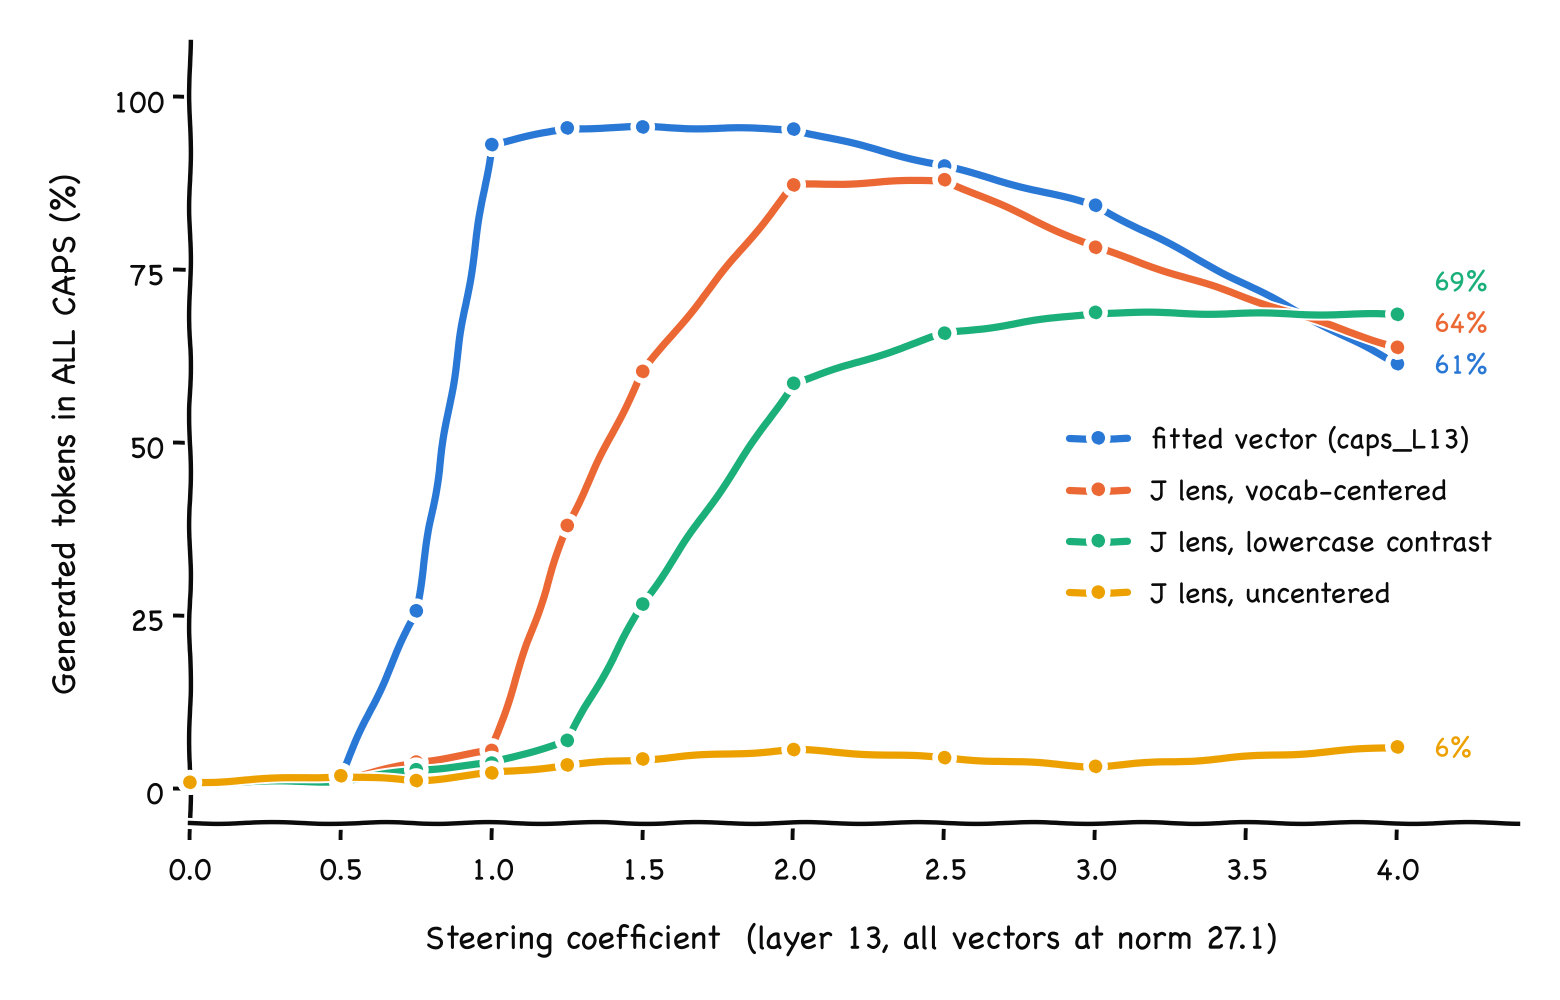
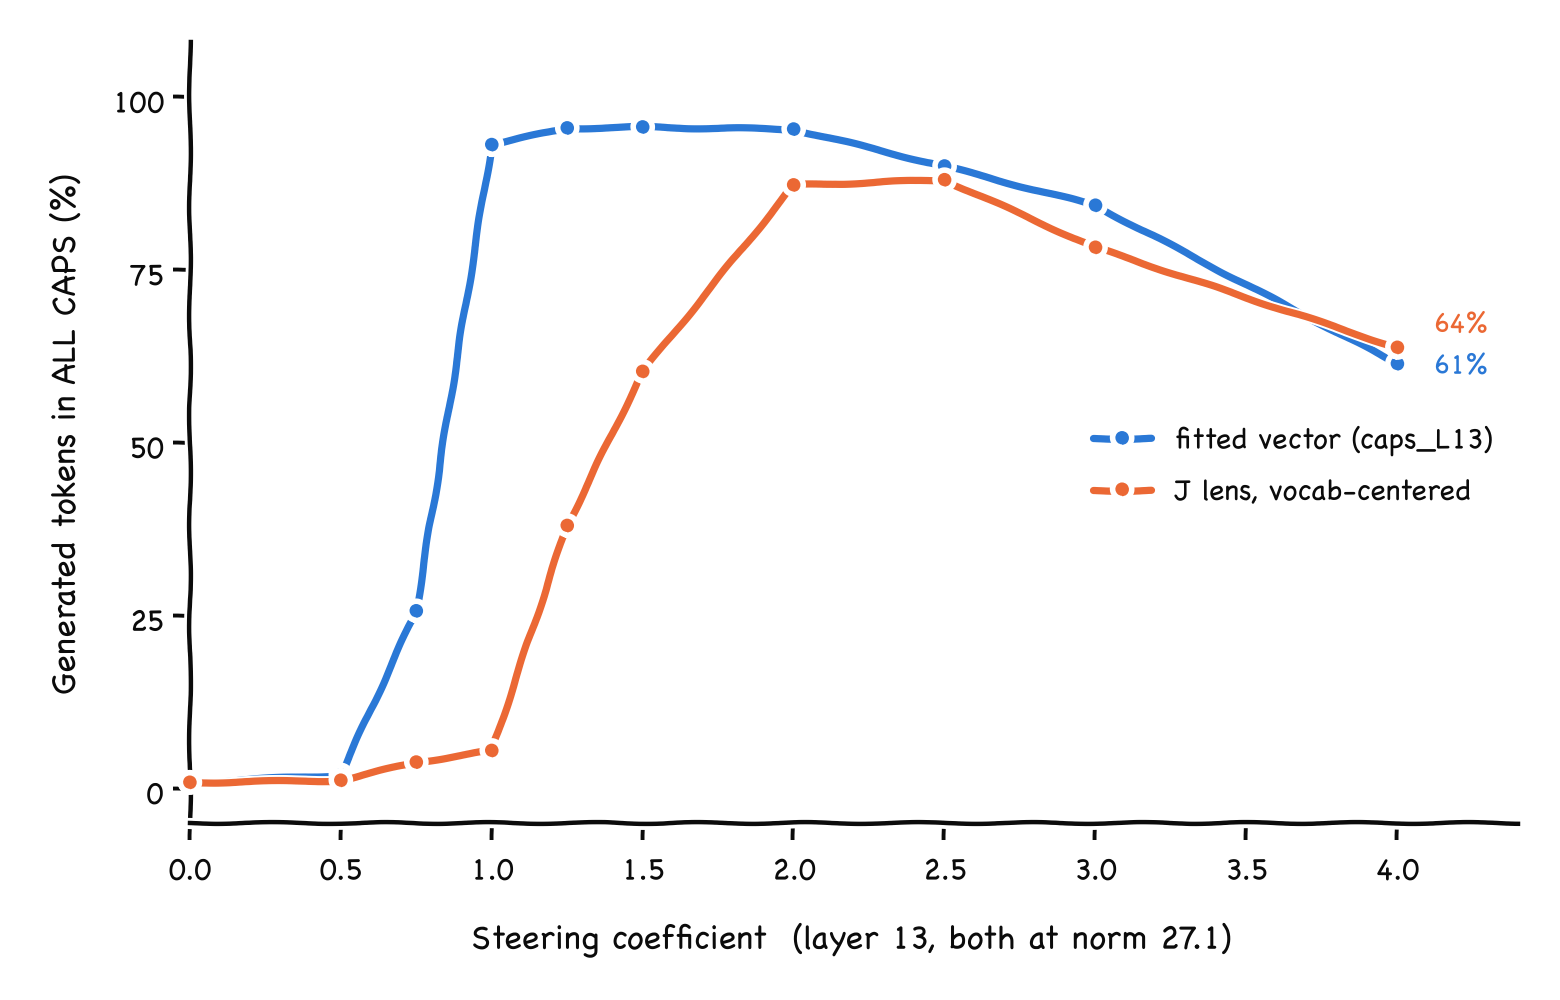
Plot only the derived vector against the fitted one
Drop the lowercase-contrast and uncentered curves from the figure. Both
are still swept and scored; their numbers stay in jlens_caps_eval.json
and in the README table.

diff --git a/scripts/eval_jlens_caps.py b/scripts/eval_jlens_caps.py
@@ -19,6 +19,7 @@ SERIES_LABELS = {
     "raw": "J lens, uncentered",
 }
 SERIES_ORDER = ["reference", "vocab_centered", "lowercase_contrast", "raw"]
+PLOT_SERIES = ["reference", "vocab_centered"]
 
 METRICS_PATH = ARTIFACTS / "jlens_caps_eval.json"
 SAMPLES_PATH = ARTIFACTS / "jlens_caps_eval_samples.json"
@@ -53,12 +54,12 @@ def parse_args():
 def build_plot(result):
     series = [
         (SERIES_LABELS[name], result["series"][name]["points"])
-        for name in SERIES_ORDER
+        for name in PLOT_SERIES
         if name in result["series"]
     ]
     render_comparison(
         series,
-        f"Steering coefficient  (layer {result['layer']}, all vectors at norm"
+        f"Steering coefficient  (layer {result['layer']}, both at norm"
         f" {result['reference_norm']:.1f})",
         "Generated tokens in ALL CAPS (%)",
         PLOT_PATH,

diff --git a/README.md b/README.md
@@ -215,8 +215,10 @@ through `J_l^T`, average over small sets, and subtract a center:
 .venv/bin/python scripts/eval_jlens_caps.py
 ```
 
-30 tokens in 10 sets of 3 (` THE`, ` AND`, ` NOT`, …). All four vectors are
-scaled to the fitted vector's norm, 27.1, so one coefficient axis covers them.
+30 tokens in 10 sets of 3 (` THE`, ` AND`, ` NOT`, …). Every vector is scaled to
+the fitted vector's norm, 27.1, so one coefficient axis covers them. The figure
+shows the derived vector against the fitted one; the two ablations below are
+swept too and live in `jlens_caps_eval.json`.
 
 ![derived vs fitted](artifacts/jlens_caps_comparison.png)
 
